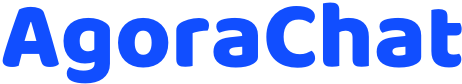
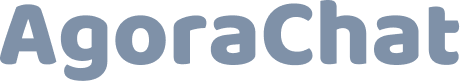
update login vc

diff --git a/AgoraChat/Code/Controllers/AgoraLoginViewController.m b/AgoraChat/Code/Controllers/AgoraLoginViewController.m
@@ -20,6 +20,7 @@
 @property (nonatomic, strong) UIView *contentView;
 @property (nonatomic, strong) UIImageView *logoImageView;
 @property (nonatomic, strong) UIImageView* titleImageView;
+@property (nonatomic, strong) UIImageView* subTitleImageView;
 @property (nonatomic, strong) UIView *hintView;
 @property (nonatomic, strong) UILabel *hintTitleLabel;
 @property (nonatomic, strong) UITextField *usernameTextField;
@@ -68,6 +69,7 @@
     [self.view addSubview:self.contentView];
     [self.contentView addSubview:self.logoImageView];
     [self.contentView addSubview:self.titleImageView];
+    [self.contentView addSubview:self.subTitleImageView];
     [self.contentView addSubview:self.hintView];
     [self.contentView addSubview:self.usernameTextField];
     [self.contentView addSubview:self.passwordTextField];
@@ -85,20 +87,24 @@
     [self.titleImageView mas_makeConstraints:^(MASConstraintMaker *make) {
         make.top.equalTo(self.logoImageView.mas_bottom).offset(20);
         make.centerX.equalTo(self.contentView);
-//        make.width.equalTo(@108);
-//        make.height.equalTo(@29);
         
     }];
+    
+    [self.subTitleImageView mas_makeConstraints:^(MASConstraintMaker *make) {
+        make.top.equalTo(self.titleImageView.mas_bottom).offset(10.0);
+        make.centerX.equalTo(self.contentView);
+    }];
+
         
     [self.hintView mas_makeConstraints:^(MASConstraintMaker *make) {
-        make.top.equalTo(self.titleImageView.mas_bottom).offset(63);
+        make.top.equalTo(self.subTitleImageView.mas_bottom).offset(63);
         make.centerX.equalTo(self.contentView);
         make.height.equalTo(@20);
     }];
     self.hintView.hidden = YES;
     
     [self.usernameTextField mas_makeConstraints:^(MASConstraintMaker *make) {
-        make.top.equalTo(self.titleImageView.mas_bottom).offset(95);
+        make.top.equalTo(self.subTitleImageView.mas_bottom).offset(95);
         make.left.equalTo(self.contentView).offset(24);
         make.right.equalTo(self.contentView).offset(-24);
         make.height.equalTo(@kLoginButtonHeight);
@@ -407,6 +413,15 @@
     return _titleImageView;
 }
 
+- (UIImageView *)subTitleImageView {
+    if (_subTitleImageView == nil) {
+        _subTitleImageView = [[UIImageView alloc] init];
+        _subTitleImageView.contentMode = UIViewContentModeScaleAspectFill;
+        _subTitleImageView.image = ImageWithName(@"login.bundle/login_api_example");
+    }
+    return _subTitleImageView;
+}
+
 - (UIView *)hintView
 {
     if (!_hintView) {
@@ -487,7 +502,7 @@
         _loginButton.titleLabel.textColor = COLOR_HEX(0x000000);
         [_loginButton setTitle:@"Log In" forState:UIControlStateNormal];
         [_loginButton setTitleColor:[UIColor whiteColor] forState:UIControlStateNormal];
-        _loginButton.backgroundColor = COLOR_HEX(0x114EFF);
+        _loginButton.backgroundColor = COLOR_HEX(0x7F91A8);
         [_loginButton addTarget:self action:@selector(doLogin) forControlEvents:UIControlEventTouchUpInside];
         _loginButton.layer.cornerRadius = kLoginButtonHeight * 0.5;
         
